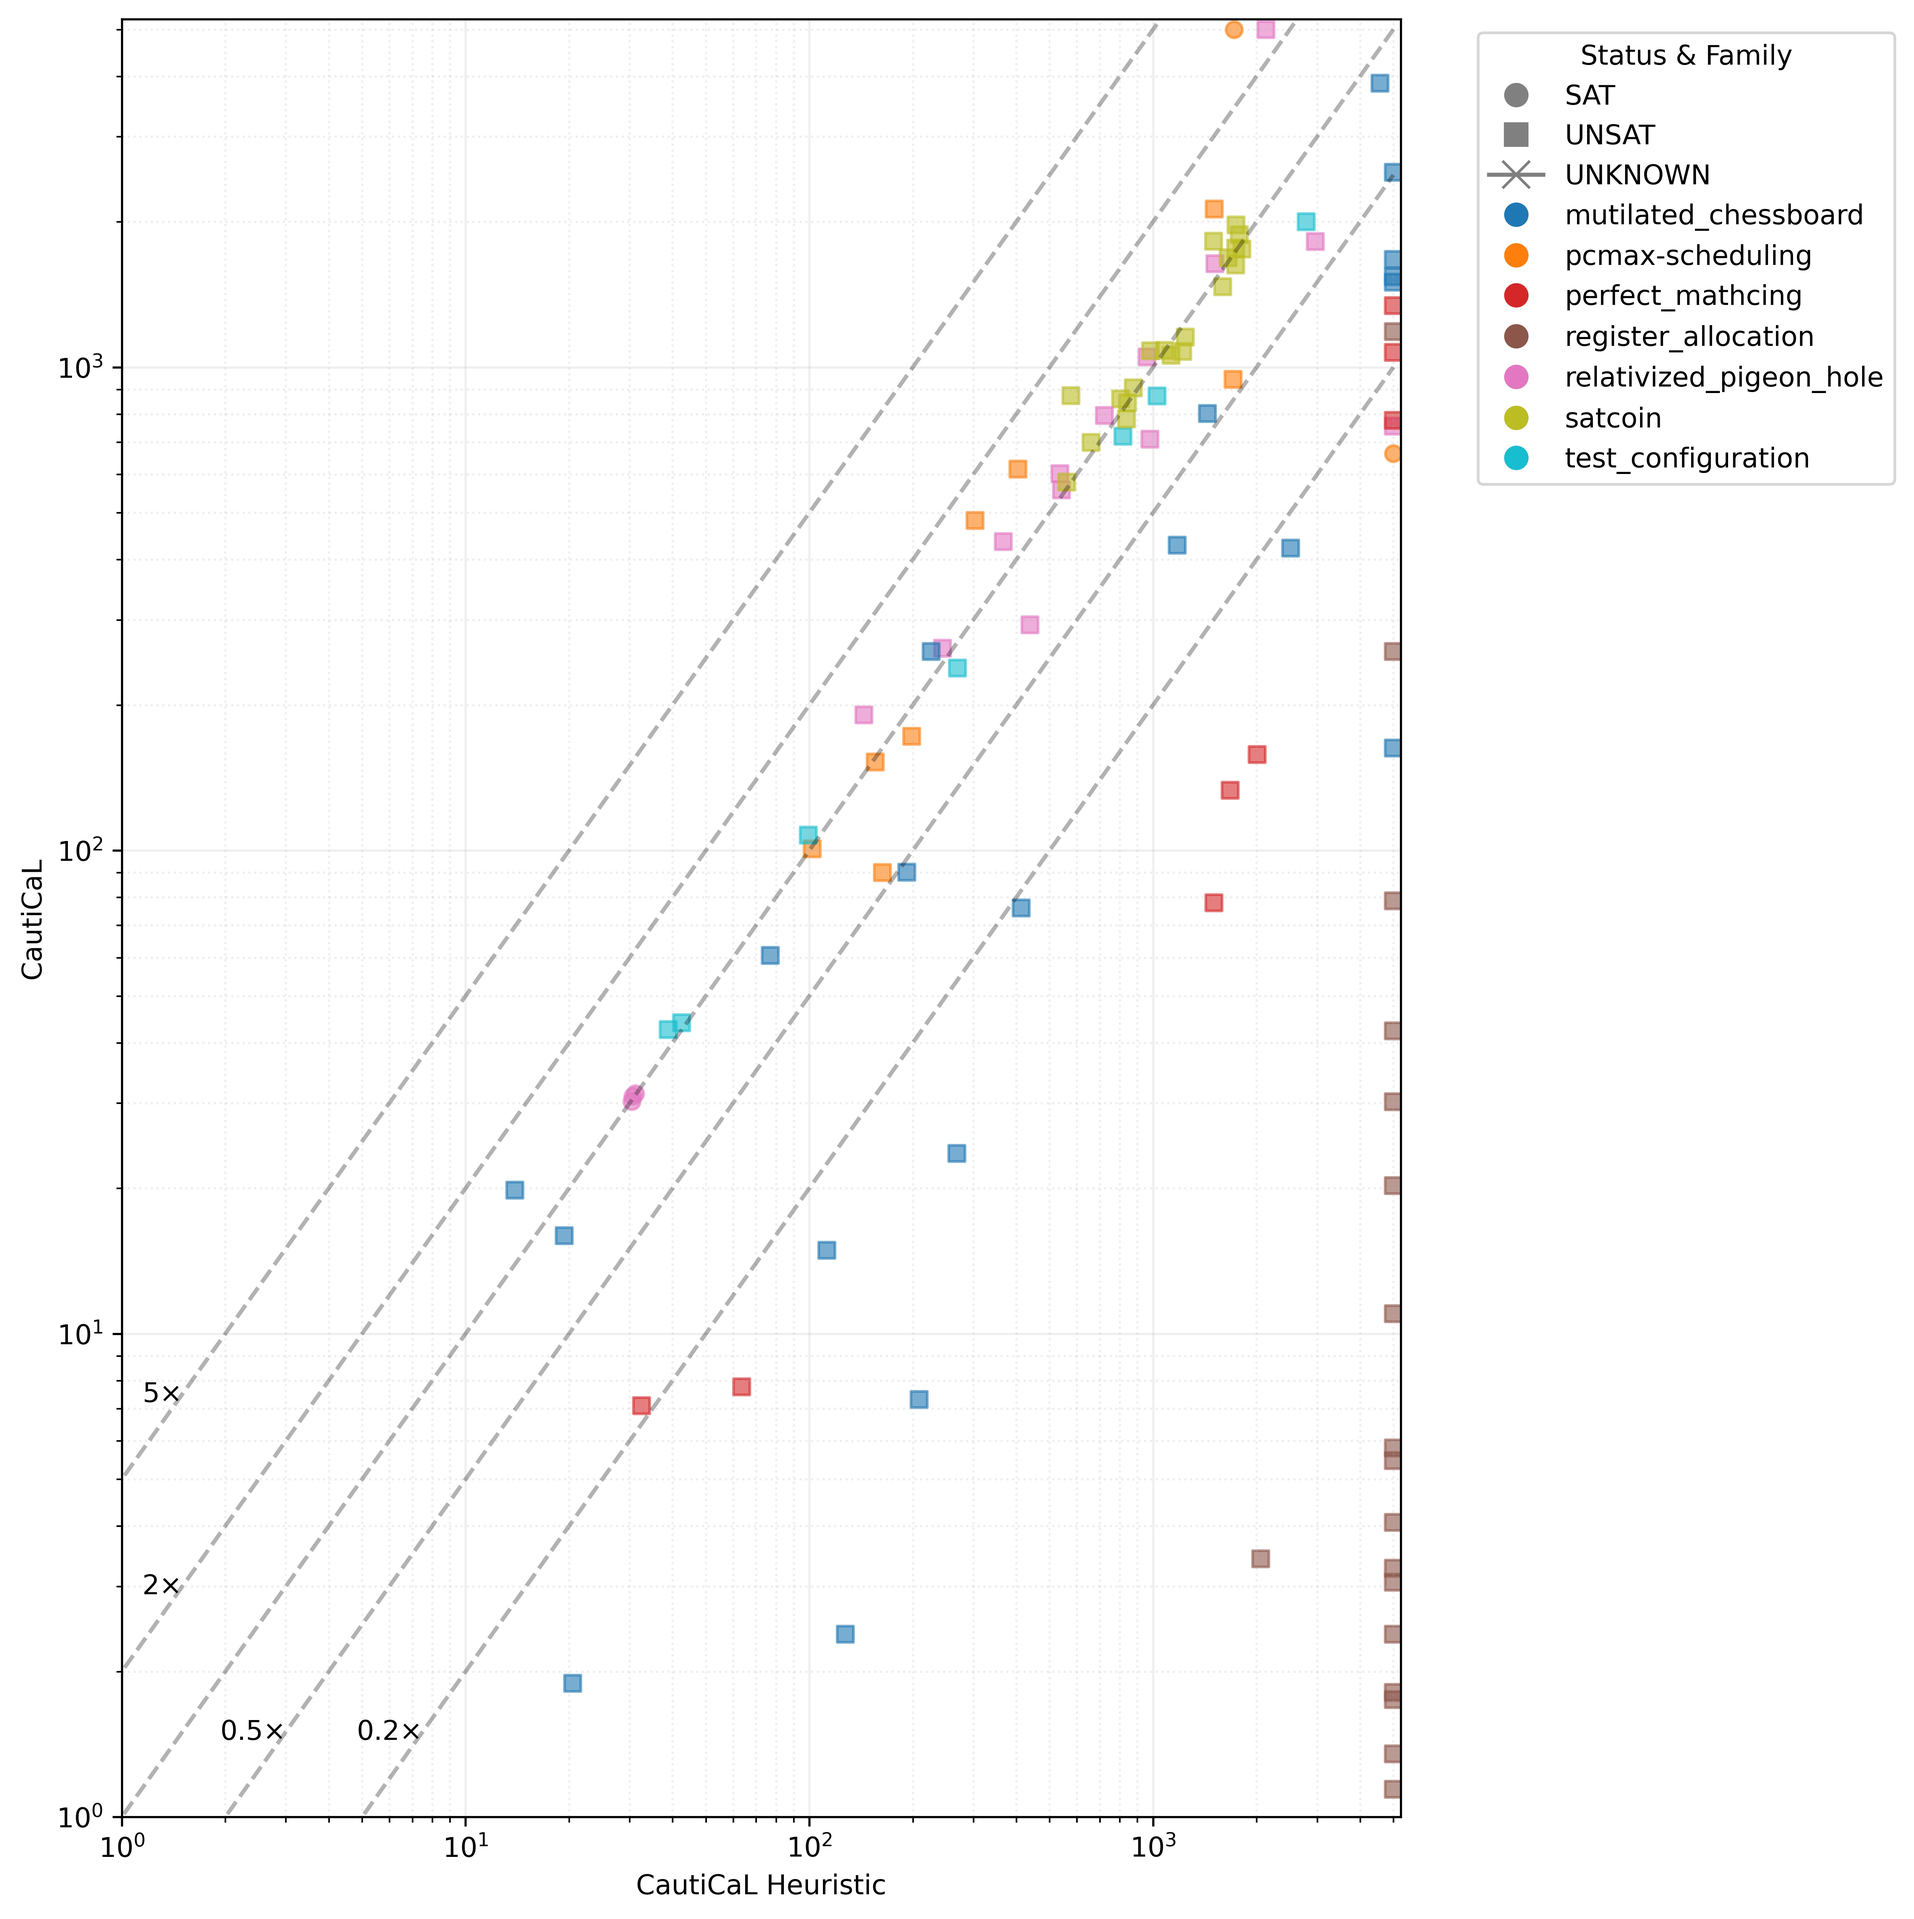
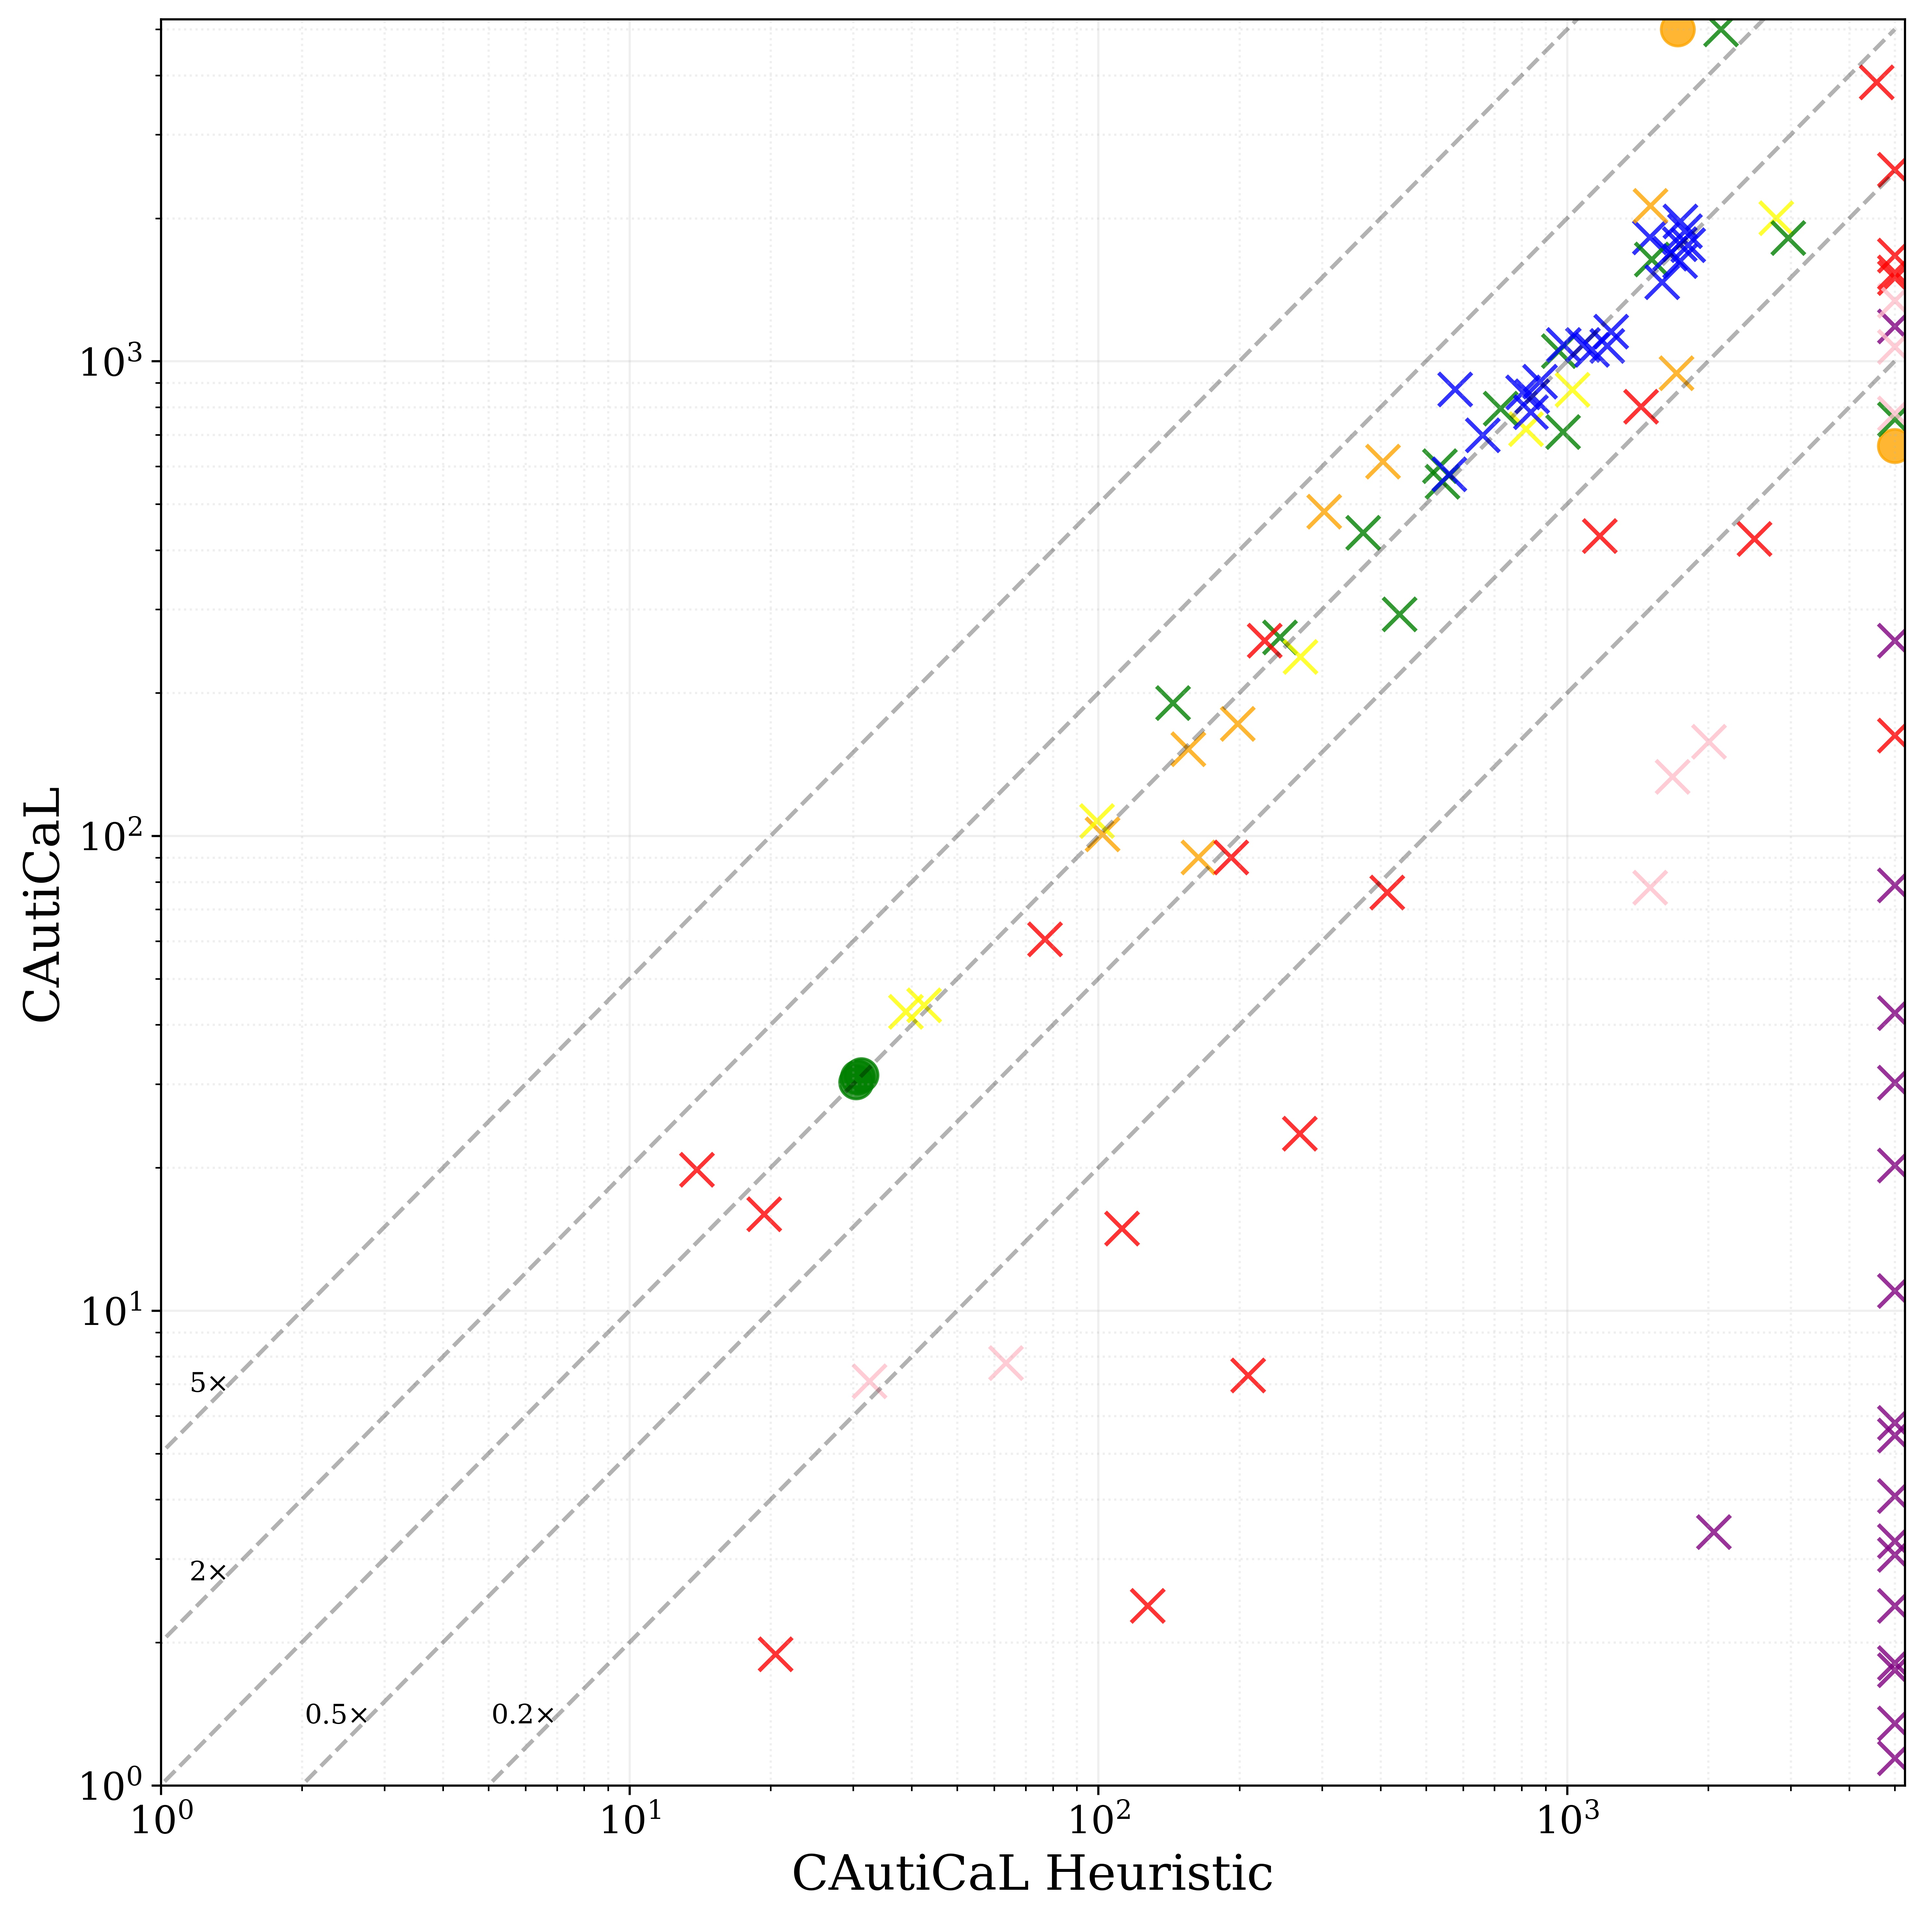
added graphs for heuristics

diff --git a/texs/5.evaluation.tex b/texs/5.evaluation.tex
@@ -280,20 +280,15 @@ We provide a brief analysis of the heuristics used in \tool.
 
 \begin{figure*}[!t]
     \centering
-    \begin{subfigure}[t]{0.3\textwidth}
-            \centering
-            \includegraphics[width=\textwidth]{figs/global_time_lim_heuristic_comparison.jpg}
-            \caption{Time limit}
-            \label{fig:global-time-comparison}
-    \end{subfigure}
+
         % \hspace{0.06\textwidth}
     % \hspace{0.06\textwidth}
-    \begin{subfigure}[t]{0.3\textwidth}
-        \centering
-        \includegraphics[width=\textwidth]{figs/globalbcp_heuristic_comparison.jpg}
-        \caption{BCP}
-        \label{fig:globalbcp}
-    \end{subfigure}
+    % \begin{subfigure}[t]{0.3\textwidth}
+    %     \centering
+    %     \includegraphics[width=\textwidth]{figs/globalbcp_heuristic_comparison.jpg}
+    %     \caption{BCP}
+    %     \label{fig:globalbcp}
+    % \end{subfigure}
     \begin{subfigure}[t]{0.3\textwidth}
         \centering
         \includegraphics[width=\textwidth]{figs/globaldontfilter_heuristic_comparison.jpg}
@@ -301,39 +296,19 @@ We provide a brief analysis of the heuristics used in \tool.
         \label{fig:globaldontfilter}
     \end{subfigure}
 
-    \caption{Performance comparison of \tool with other solvers}
-    % \label{fig:solver-comparison}
-\end{figure*}
+    % \begin{subfigure}[t]{0.3\textwidth}
+    %         \centering
+    %         \includegraphics[width=\textwidth]{figs/globaldouble_heuristic_comparison.jpg}
+    %         \caption{Double}
+    %         \label{fig:cautical-vs-cadical}
+    % \end{subfigure}
 
-\begin{figure*}[!t]
-    \centering
-    \begin{subfigure}[t]{0.3\textwidth}
-            \centering
-            \includegraphics[width=\textwidth]{figs/globaldouble_heuristic_comparison.jpg}
-            \caption{Double}
-            \label{fig:cautical-vs-cadical}
-    \end{subfigure}
-        % \hspace{0.06\textwidth}
-    % \hspace{0.06\textwidth}
-    \begin{subfigure}[t]{0.3\textwidth}
-        \centering
-        \includegraphics[width=\textwidth]{figs/globalisort_heuristic_comparison.jpg}
-        \caption{Sort $i$ beforehand by frequency used}
-        \label{fig:cautical-vs-prelearn}
-    \end{subfigure}
     \begin{subfigure}[t]{0.3\textwidth}
         \centering
         \includegraphics[width=\textwidth]{figs/globalmaxlen_heuristic_comparison.jpg}
         \caption{Max length}
         \label{fig:cautical-vs-prelearn}
     \end{subfigure}
-
-    \caption{Performance comparison of \tool with other solvers}
-    % \label{fig:solver-comparison}
-\end{figure*}
-
-\begin{figure*}[!t]
-    \centering
     \begin{subfigure}[t]{0.3\textwidth}
             \centering
             \includegraphics[width=\textwidth]{figs/globalnoshrink_heuristic_comparison.jpg}
@@ -342,10 +317,22 @@ We provide a brief analysis of the heuristics used in \tool.
     \end{subfigure}
         % \hspace{0.06\textwidth}
     % \hspace{0.06\textwidth}
+    % \begin{subfigure}[t]{0.3\textwidth}
+    %     \centering
+    %     \includegraphics[width=\textwidth]{figs/globalorderi_heuristic_comparison.jpg}
+    %     \caption{Order $i$ beforehand in increasing order}
+    %     \label{fig:cautical-vs-prelearn}
+    % \end{subfigure}
     \begin{subfigure}[t]{0.3\textwidth}
         \centering
-        \includegraphics[width=\textwidth]{figs/globalorderi_heuristic_comparison.jpg}
-        \caption{Order $i$ beforehand in increasing order}
+        \includegraphics[width=\textwidth]{figs/global_time_lim_heuristic_comparison.jpg}
+        \caption{Time limit}
+        \label{fig:global-time-comparison}
+    \end{subfigure}
+    \begin{subfigure}[t]{0.3\textwidth}
+        \centering
+        \includegraphics[width=\textwidth]{figs/globalisort_heuristic_comparison.jpg}
+        \caption{Sort $i$ beforehand by frequency used}
         \label{fig:cautical-vs-prelearn}
     \end{subfigure}
     \begin{subfigure}[t]{0.3\textwidth}
